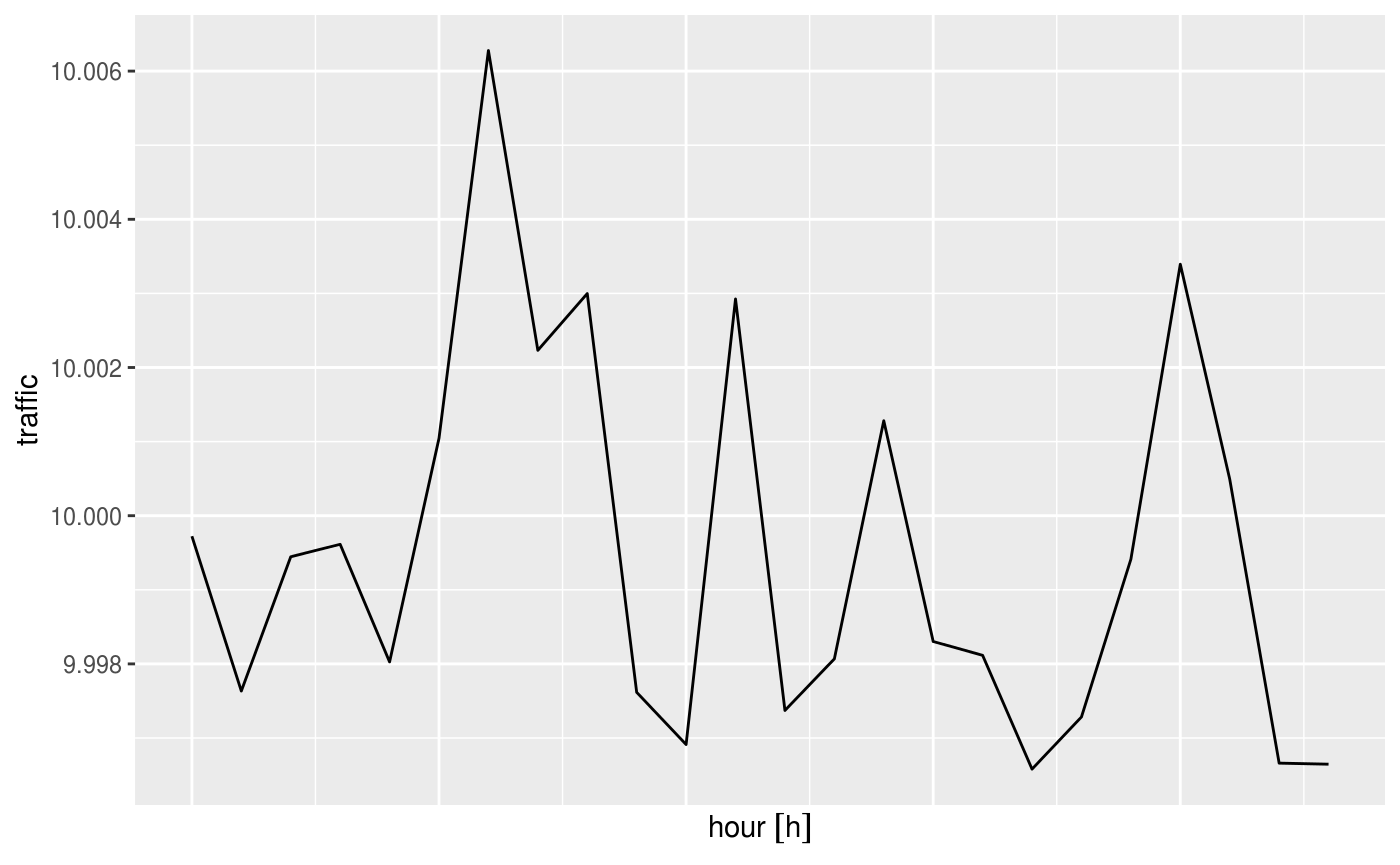
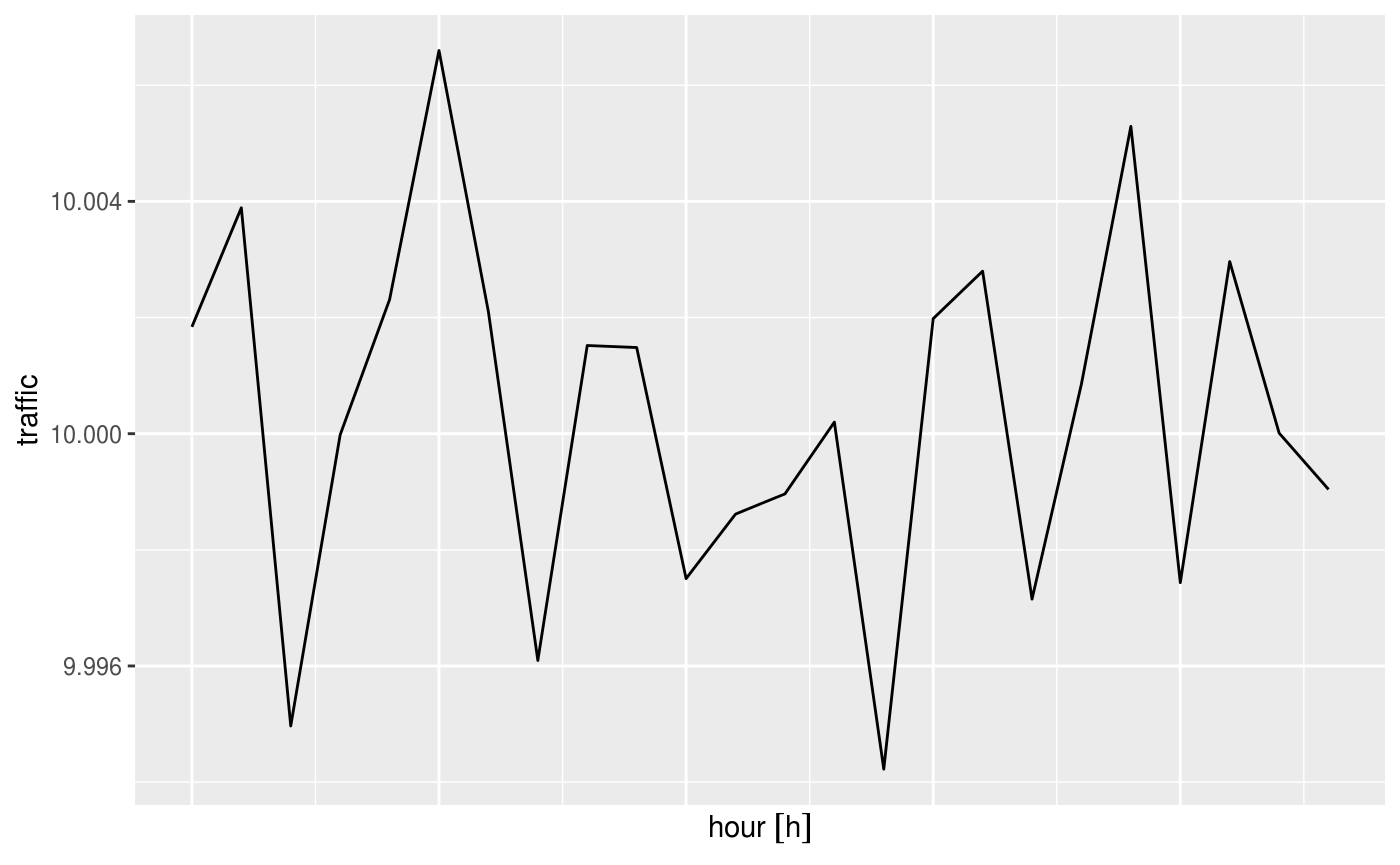
Deploy from Travis build 707 [ci skip]
Build URL: https://travis-ci.org/r-spatial/stars/builds/662427861
Commit: 944fdcf96a92cdfd55ea4e390638461731e72731

diff --git a/reference/read_stars.html b/reference/read_stars.html
@@ -336,13 +336,13 @@ has to be one of: "nearest_neighbour" (the default),
 <span class='fu'><a href='write_stars.html'>write_stars</a></span>(<span class='no'>st</span>, <span class='no'>tmp</span>)
 (<span class='no'>red</span> <span class='kw'>&lt;-</span> <span class='fu'>read_stars</span>(<span class='no'>tmp</span>))</div><div class='output co'>#&gt; stars object with 2 dimensions and 1 attribute
 #&gt; attribute(s):
-#&gt;  file52de1bf032be.tif 
-#&gt;  Min.   :  1.00       
-#&gt;  1st Qu.: 30.75       
-#&gt;  Median : 60.50       
-#&gt;  Mean   : 60.50       
-#&gt;  3rd Qu.: 90.25       
-#&gt;  Max.   :120.00       
+#&gt;  file519bac1f701.tif 
+#&gt;  Min.   :  1.00      
+#&gt;  1st Qu.: 30.75      
+#&gt;  Median : 60.50      
+#&gt;  Mean   : 60.50      
+#&gt;  3rd Qu.: 90.25      
+#&gt;  Max.   :120.00      
 #&gt; dimension(s):
 #&gt;   from to offset delta refsys point values    
 #&gt; x    1 10      0     1     NA    NA   NULL [x]
@@ -352,13 +352,13 @@ has to be one of: "nearest_neighbour" (the default),
 #&gt; [2,]   38   98</div><div class='input'>(<span class='no'>red</span> <span class='kw'>&lt;-</span> <span class='fu'>read_stars</span>(<span class='no'>tmp</span>, <span class='kw'>RasterIO</span> <span class='kw'>=</span> <span class='fu'><a href='https://rdrr.io/r/base/list.html'>list</a></span>(<span class='kw'>nXOff</span> <span class='kw'>=</span> <span class='fl'>1</span>, <span class='kw'>nYOff</span> <span class='kw'>=</span> <span class='fl'>1</span>, <span class='kw'>nXsize</span> <span class='kw'>=</span> <span class='fl'>10</span>, <span class='kw'>nYSize</span> <span class='kw'>=</span> <span class='fl'>12</span>,
    <span class='kw'>nBufXSize</span> <span class='kw'>=</span> <span class='fl'>2</span>, <span class='kw'>nBufYSize</span> <span class='kw'>=</span> <span class='fl'>2</span>)))</div><div class='output co'>#&gt; stars object with 2 dimensions and 1 attribute
 #&gt; attribute(s):
-#&gt;  file52de1bf032be.tif 
-#&gt;  Min.   :33.00        
-#&gt;  1st Qu.:36.75        
-#&gt;  Median :65.50        
-#&gt;  Mean   :65.50        
-#&gt;  3rd Qu.:94.25        
-#&gt;  Max.   :98.00        
+#&gt;  file519bac1f701.tif 
+#&gt;  Min.   :33.00       
+#&gt;  1st Qu.:36.75       
+#&gt;  Median :65.50       
+#&gt;  Mean   :65.50       
+#&gt;  3rd Qu.:94.25       
+#&gt;  Max.   :98.00       
 #&gt; dimension(s):
 #&gt;   from to offset delta refsys point values    
 #&gt; x    1  2      0     5     NA    NA   NULL [x]

diff --git a/articles/stars1.html b/articles/stars1.html
@@ -558,13 +558,13 @@
 <a class="sourceLine" id="cb22-21" data-line-number="21">(<span class="dt">st =</span> <span class="kw"><a href="../reference/st_as_stars.html">st_as_stars</a></span>(<span class="kw"><a href="https://rdrr.io/r/base/list.html">list</a></span>(<span class="dt">traffic =</span> traffic),  <span class="dt">dimensions =</span> dims))</a>
 <a class="sourceLine" id="cb22-22" data-line-number="22">## stars object with 5 dimensions and 1 attribute</a>
 <a class="sourceLine" id="cb22-23" data-line-number="23">## attribute(s), summary of first 1e+05 cells:</a>
-<a class="sourceLine" id="cb22-24" data-line-number="24">##     traffic      </a>
-<a class="sourceLine" id="cb22-25" data-line-number="25">##  Min.   : 0.000  </a>
-<a class="sourceLine" id="cb22-26" data-line-number="26">##  1st Qu.: 8.000  </a>
-<a class="sourceLine" id="cb22-27" data-line-number="27">##  Median :10.000  </a>
-<a class="sourceLine" id="cb22-28" data-line-number="28">##  Mean   : 9.995  </a>
-<a class="sourceLine" id="cb22-29" data-line-number="29">##  3rd Qu.:12.000  </a>
-<a class="sourceLine" id="cb22-30" data-line-number="30">##  Max.   :26.000  </a>
+<a class="sourceLine" id="cb22-24" data-line-number="24">##     traffic     </a>
+<a class="sourceLine" id="cb22-25" data-line-number="25">##  Min.   : 0.00  </a>
+<a class="sourceLine" id="cb22-26" data-line-number="26">##  1st Qu.: 8.00  </a>
+<a class="sourceLine" id="cb22-27" data-line-number="27">##  Median :10.00  </a>
+<a class="sourceLine" id="cb22-28" data-line-number="28">##  Mean   :10.01  </a>
+<a class="sourceLine" id="cb22-29" data-line-number="29">##  3rd Qu.:12.00  </a>
+<a class="sourceLine" id="cb22-30" data-line-number="30">##  Max.   :27.00  </a>
 <a class="sourceLine" id="cb22-31" data-line-number="31">## dimension(s):</a>
 <a class="sourceLine" id="cb22-32" data-line-number="32">##             from  to                      offset                       delta</a>
 <a class="sourceLine" id="cb22-33" data-line-number="33">## origin         1 100                          NA                          NA</a>

diff --git a/articles/stars2.html b/articles/stars2.html
@@ -276,7 +276,7 @@
 <div class="sourceCode" id="cb8"><pre class="sourceCode r"><code class="sourceCode r"><a class="sourceLine" id="cb8-1" data-line-number="1"><span class="kw"><a href="https://rdrr.io/r/base/system.time.html">system.time</a></span>(<span class="kw"><a href="../reference/plot.html">plot</a></span>(p))</a></code></pre></div>
 <p><img src="stars2_files/figure-html/unnamed-chunk-8-1.png" width="700"></p>
 <pre><code>##    user  system elapsed 
-##   1.756   0.844   1.647</code></pre>
+##   1.556   0.704   1.442</code></pre>
 <p>This takes only around 1 second, since only those pixels are read that can be seen on the plot. If we read the entire image in memory first, as we would do with</p>
 <div class="sourceCode" id="cb10"><pre class="sourceCode r"><code class="sourceCode r"><a class="sourceLine" id="cb10-1" data-line-number="1">p =<span class="st"> </span><span class="kw"><a href="../reference/read_stars.html">read_stars</a></span>(s2, <span class="dt">proxy =</span> <span class="ot">FALSE</span>)</a></code></pre></div>
 <p>then only the reading would take over a minute, and require 5 Gb memory.</p>
@@ -415,7 +415,7 @@
 <a class="sourceLine" id="cb17-17" data-line-number="17"><span class="kw"><a href="https://rdrr.io/r/base/system.time.html">system.time</a></span>(<span class="kw"><a href="../reference/plot.html">plot</a></span>(s2.ndvi)) <span class="co"># read - compute ndvi - plot </span></a></code></pre></div>
 <p><img src="stars2_files/figure-html/unnamed-chunk-16-1.png" width="700"></p>
 <pre><code>##    user  system elapsed 
-##   1.944   0.760   1.763</code></pre>
+##   1.760   0.592   1.564</code></pre>
 </div>
 </div>
 </div>
